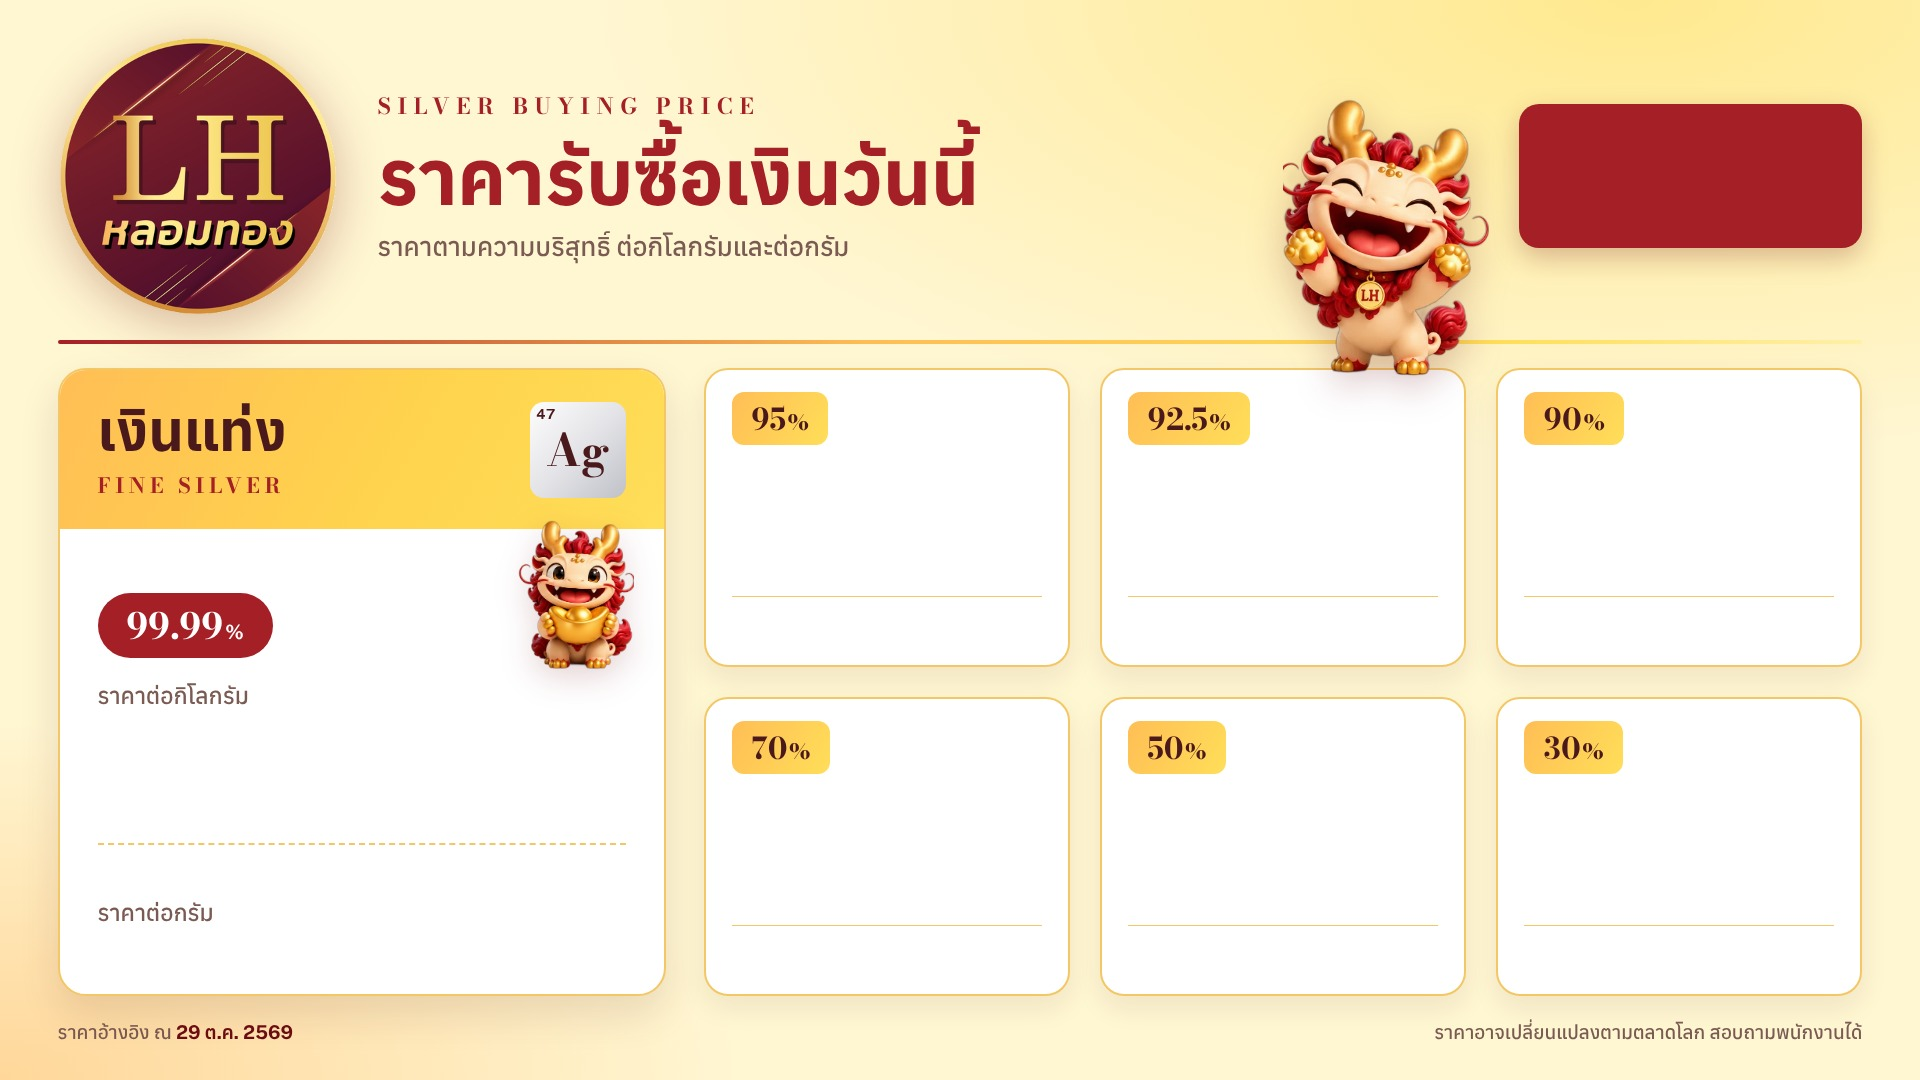
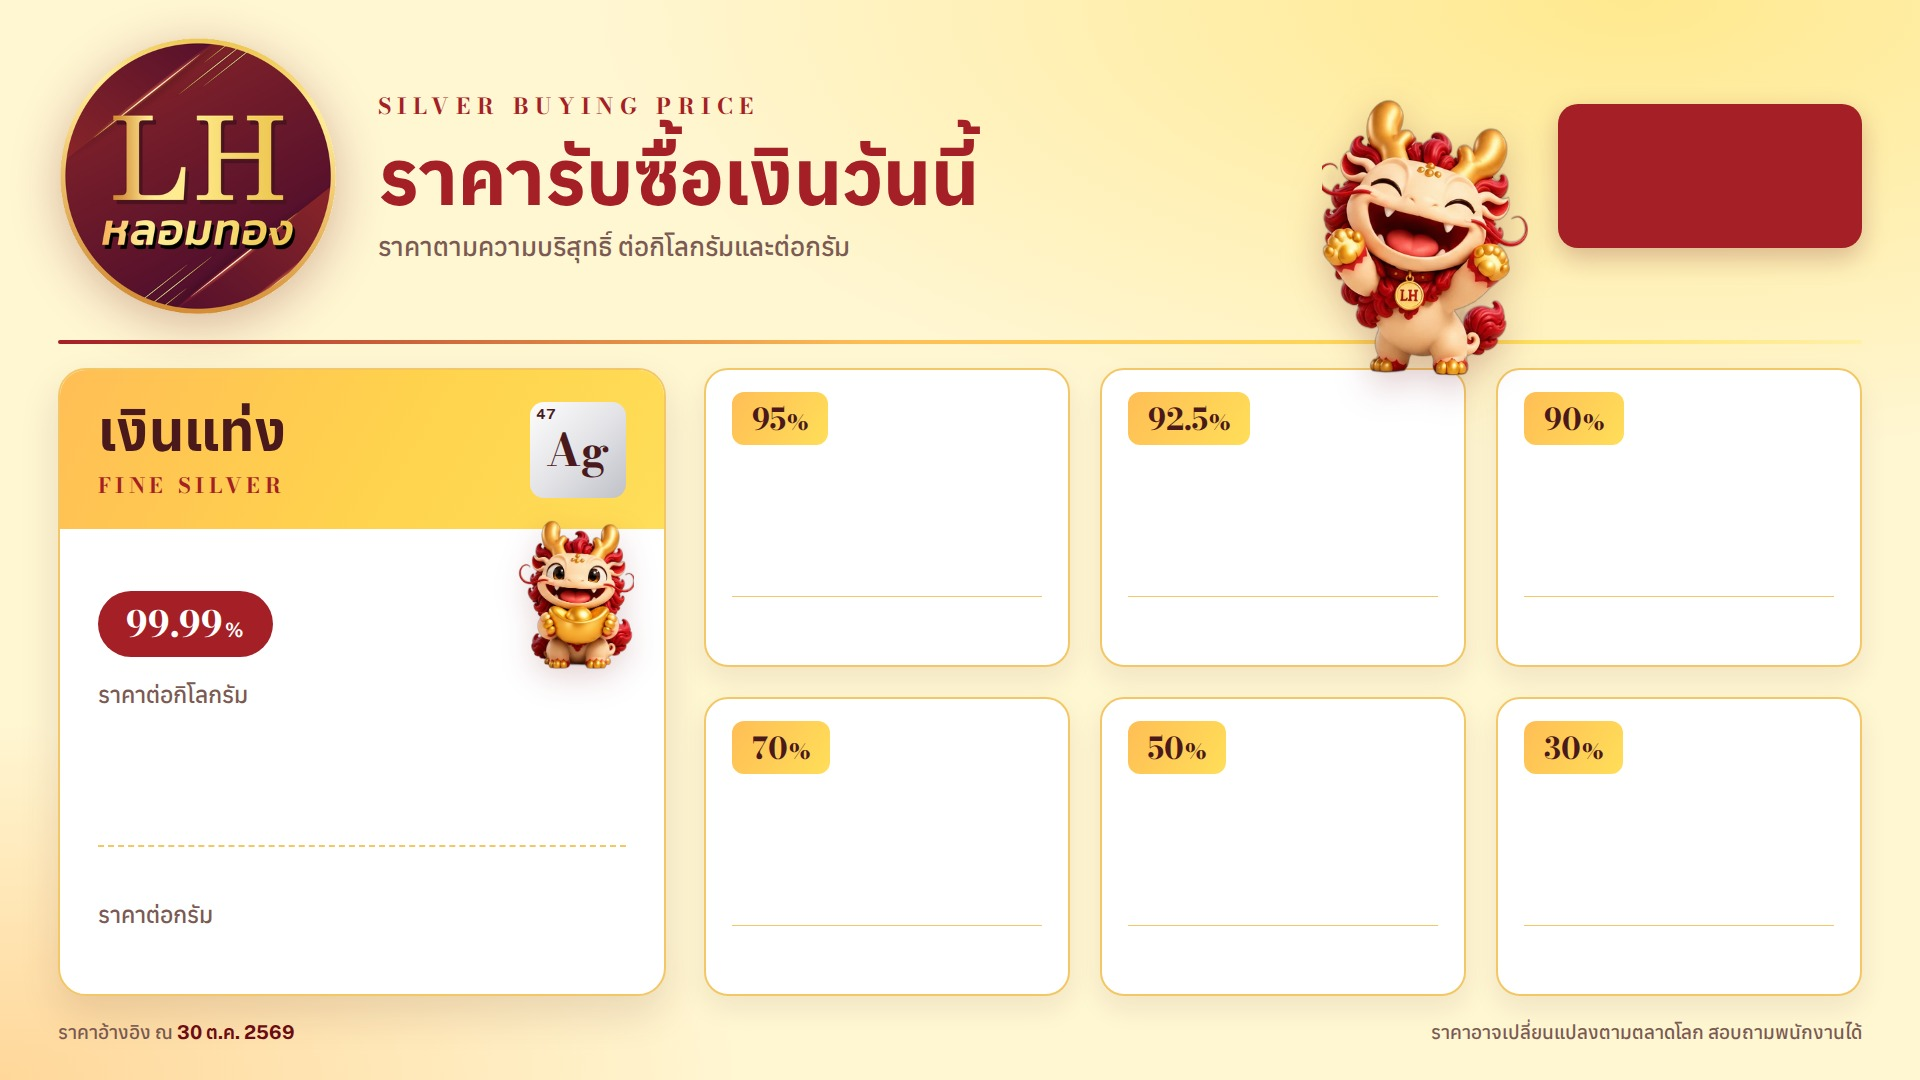
Update prices 2026-10-30

diff --git a/board.html b/board.html
@@ -219,14 +219,14 @@ html{-webkit-text-size-adjust:100%;text-size-adjust:100%}
      ราคาแต่ละเกรด = ราคาเงินหลังหัก × เปอร์เซ็นต์ (99.99% ใช้ราคาเต็ม)
    showSilver = เปิด/ปิดหน้าราคาเงิน, rotateSeconds = เปลี่ยนหน้าทุกกี่วินาที */
 const CONFIG = {
-  asOf: "29 ต.ค. 2569",
-  fx: 33.77,
+  asOf: "30 ต.ค. 2569",
+  fx: 33.73,
   discount: 0.20,
   rotateSeconds: 15,
   showSilver: true,
   metals: [
-    { th:"แพลตินัม",  en:"Platinum",  sym:"Pt", z:78, usdPerGram:49.1263 },
-    { th:"แพลเลเดียม", en:"Palladium", sym:"Pd", z:46, usdPerGram:32.0864 },
+    { th:"แพลตินัม",  en:"Platinum",  sym:"Pt", z:78, usdPerGram:47.0044 },
+    { th:"แพลเลเดียม", en:"Palladium", sym:"Pd", z:46, usdPerGram:31.1862 },
     { th:"โรเดียม",    en:"Rhodium",   sym:"Rh", z:45, usdPerGram:274.89, discount:0.40 }
   ],
   silver: { pricePerKg: 55000, grades: [95, 92.5, 90, 70, 50, 30] }
